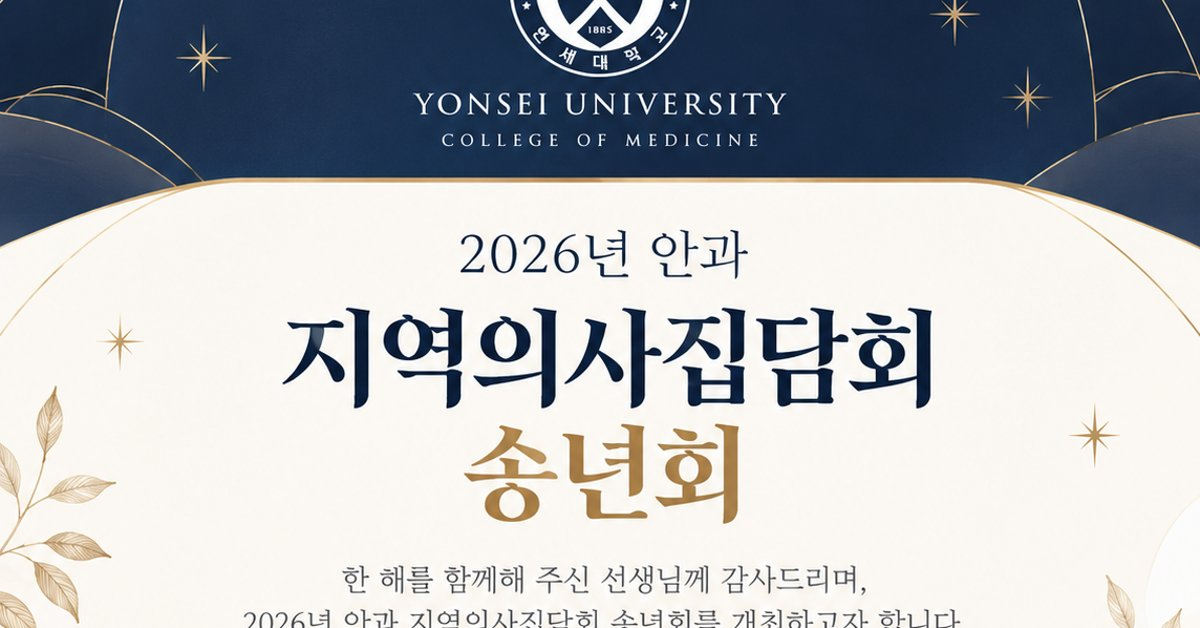
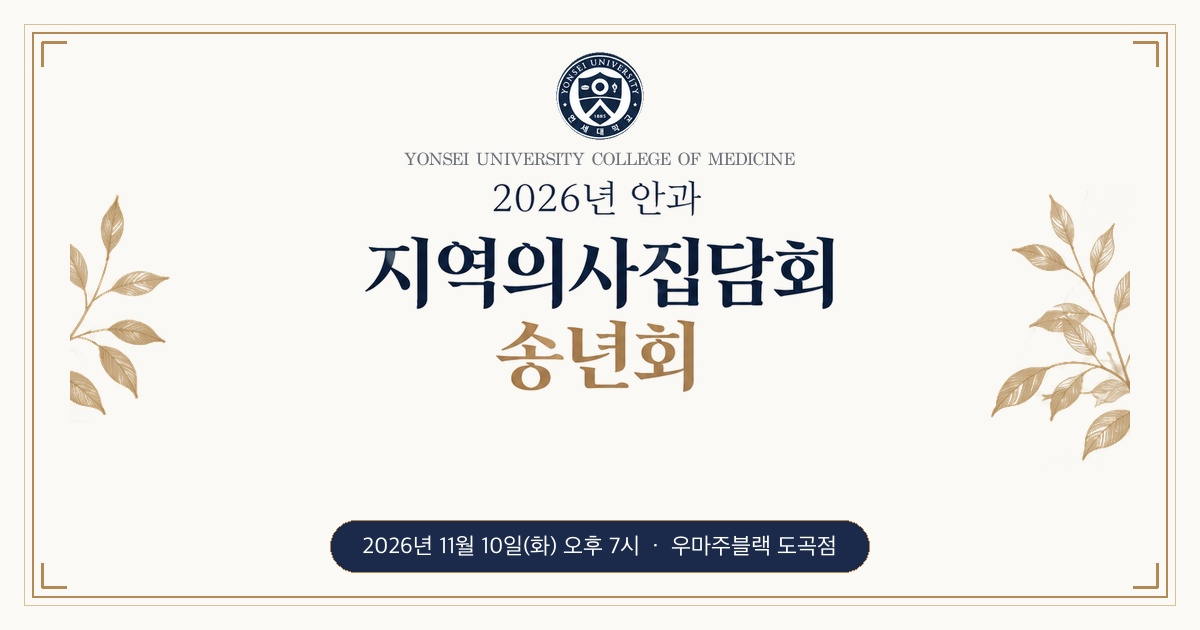
feat: update Open Graph metadata, social preview image, and Vercel routing configuration

diff --git a/2026-SYH/index.html b/2026-SYH/index.html
@@ -7,12 +7,20 @@
 <meta name="description" content="2026년 11월 10일(화) 오후 7시 · 한 해를 함께해 주신 선생님께 감사드리며 송년회에 초대합니다.">
 <meta name="theme-color" content="#1b2a4a">
 
-<!-- 카카오톡·문자 링크 미리보기 (og:image / og:url 은 배포 주소로 바꿔주세요) -->
+<!-- 카카오톡·문자 링크 미리보기 (Open Graph) -->
 <meta property="og:type" content="website">
 <meta property="og:title" content="2026년 안과 지역의사집담회 송년회">
-<meta property="og:description" content="11월 10일(화) 오후 7시 · 뜻깊은 자리에 함께해 주시길 바랍니다.">
-<meta property="og:image" content="https://minyun-e.github.io/Yonsei-invitation/assets/og.jpg">
-<meta property="og:url" content="https://minyun-e.github.io/Yonsei-invitation/">
+<meta property="og:description" content="2026년 11월 10일(화) 오후 7시 · 우마주블랙 도곡점">
+<meta property="og:image" content="https://yonsei-ohthalmology-invitation.vercel.app/2026-SYH/assets/og.jpg">
+<meta property="og:image:width" content="1200">
+<meta property="og:image:height" content="630">
+<meta property="og:url" content="https://yonsei-ohthalmology-invitation.vercel.app/2026-SYH/">
+
+<!-- Twitter Card -->
+<meta name="twitter:card" content="summary_large_image">
+<meta name="twitter:title" content="2026년 안과 지역의사집담회 송년회">
+<meta name="twitter:description" content="2026년 11월 10일(화) 오후 7시 · 우마주블랙 도곡점">
+<meta name="twitter:image" content="https://yonsei-ohthalmology-invitation.vercel.app/2026-SYH/assets/og.jpg">
 
 <link rel="preconnect" href="https://fonts.googleapis.com">
 <link rel="preconnect" href="https://fonts.gstatic.com" crossorigin>
